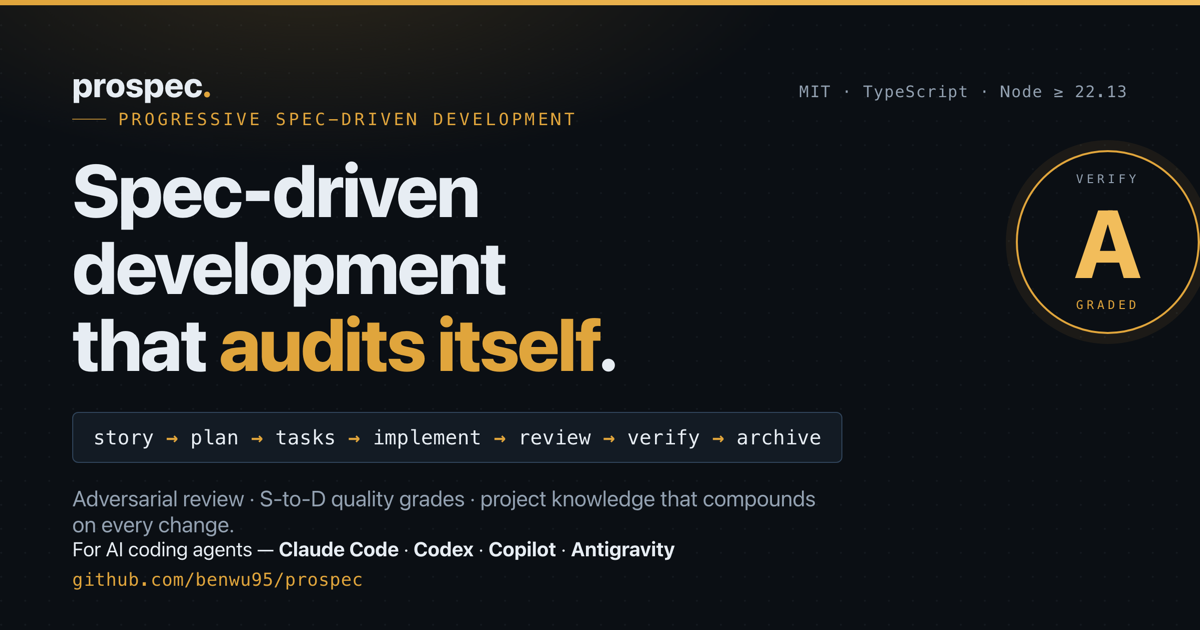
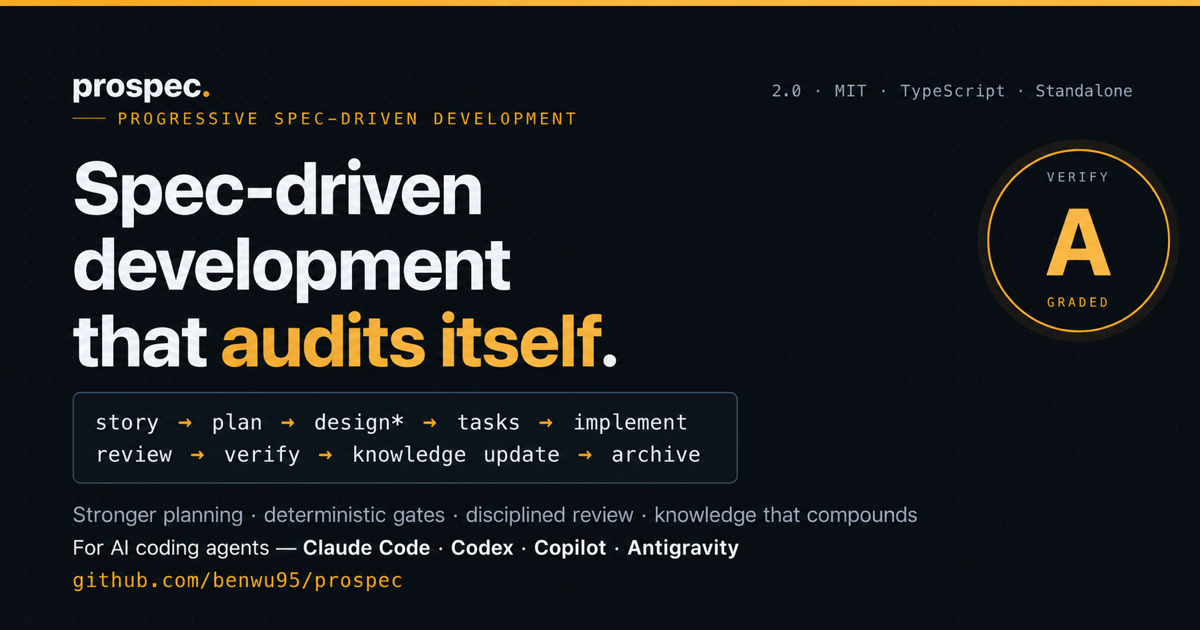
docs(release): refresh 2.0 social preview

diff --git a/docs/index.html b/docs/index.html
@@ -14,12 +14,12 @@
 <meta property="og:image" content="https://benwu95.github.io/prospec/og.png">
 <meta property="og:image:width" content="1200">
 <meta property="og:image:height" content="630">
-<meta property="og:image:alt" content="Current 1.3 social preview: Prospec's self-auditing SDD, grade A, earlier story-to-archive flow, and Node.js toolchain.">
+<meta property="og:image:alt" content="Prospec 2.0 social preview: spec-driven development that audits itself, with stronger planning, deterministic gates, disciplined review, standalone binaries, and a lifecycle from story through knowledge update to archive.">
 <meta name="twitter:card" content="summary_large_image">
 <meta name="twitter:title" content="Prospec — the governed spec loop for AI coding agents">
 <meta name="twitter:description" content="Stronger planning, deterministic gates, adversarial review, and self-correcting knowledge for AI coding agents.">
 <meta name="twitter:image" content="https://benwu95.github.io/prospec/og.png">
-<meta name="twitter:image:alt" content="Current 1.3 social preview: Prospec's self-auditing SDD, grade A, earlier story-to-archive flow, and Node.js toolchain.">
+<meta name="twitter:image:alt" content="Prospec 2.0 social preview: spec-driven development that audits itself, with stronger planning, deterministic gates, disciplined review, standalone binaries, and a lifecycle from story through knowledge update to archive.">
 <script>
   (function(){
     var h = document.documentElement;

diff --git a/tests/contract/skill-format.test.ts b/tests/contract/skill-format.test.ts
@@ -2290,11 +2290,11 @@ describe('Skill Format Contract', () => {
       expect(zhOverlay).not.toContain('已發布版本仍維持 1.3.0');
     });
 
-    it('describes the unchanged 1.3 social image without presenting it as the 2.0 pipeline', () => {
-      const alt = "Current 1.3 social preview: Prospec's self-auditing SDD, grade A, earlier story-to-archive flow, and Node.js toolchain.";
+    it('describes the 2.0 social image with the current runtime and lifecycle', () => {
+      const alt = 'Prospec 2.0 social preview: spec-driven development that audits itself, with stronger planning, deterministic gates, disciplined review, standalone binaries, and a lifecycle from story through knowledge update to archive.';
       expect(website).toContain(`<meta property="og:image:alt" content="${alt}">`);
       expect(website).toContain(`<meta name="twitter:image:alt" content="${alt}">`);
-      expect(website).not.toContain('content="Prospec 2.0 lifecycle:');
+      expect(website).not.toContain('Current 1.3 social preview');
     });
 
     it('renders the canonical standard lifecycle in order and names its exceptions', () => {
